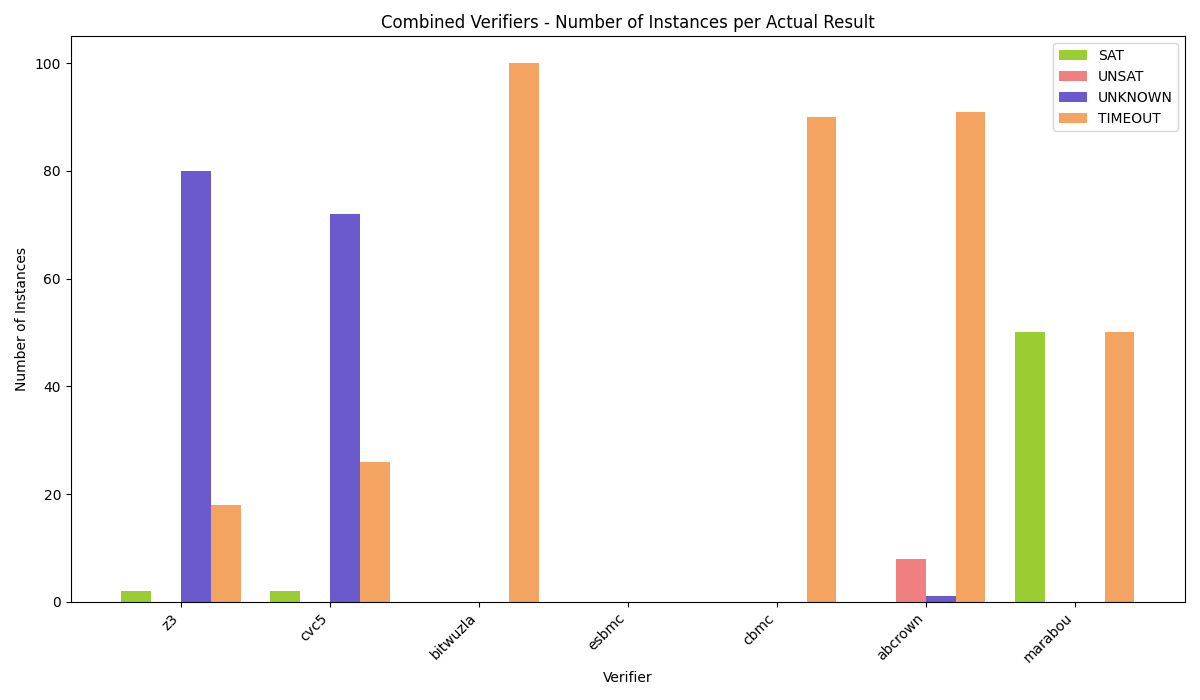
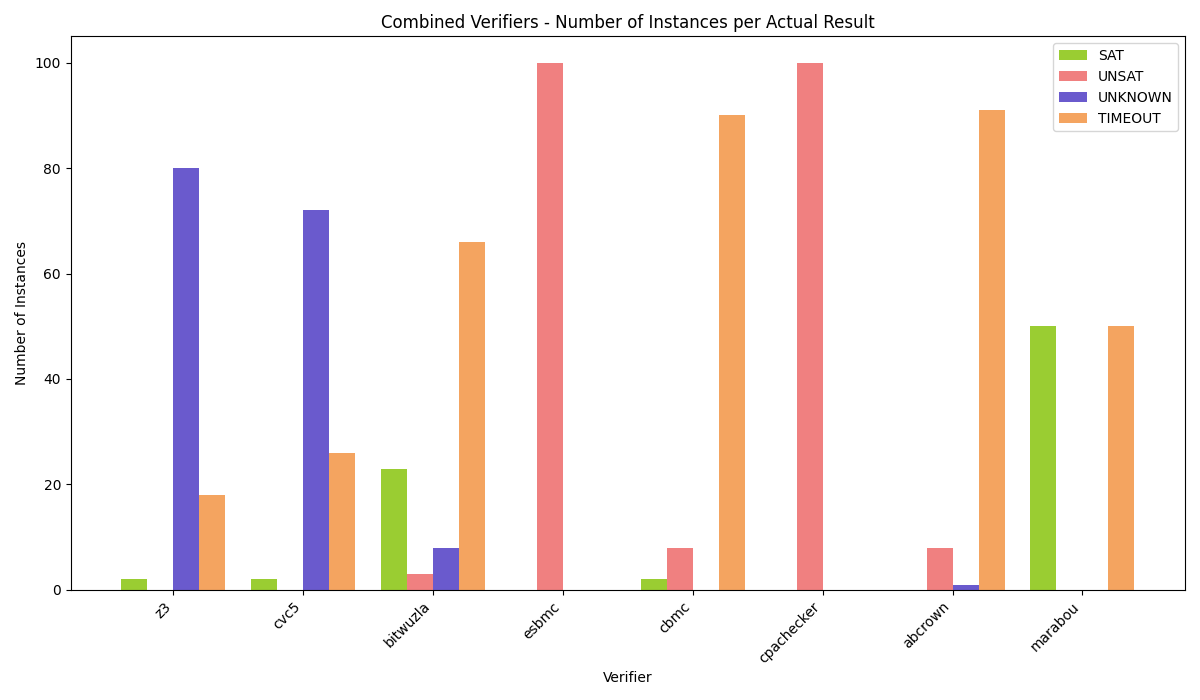
generated graphs

diff --git a/helpers/conversion_stats.py b/helpers/conversion_stats.py
@@ -2,7 +2,6 @@ import pandas as pd
 import matplotlib.pyplot as plt
 from pathlib import Path
 
-
 SCRIPT_DIR = Path(__file__).parent
 RESULTS_DIR = SCRIPT_DIR.parent / "results"
 GRAPHS_DIR = SCRIPT_DIR.parent / "graphs"
@@ -11,9 +10,9 @@ GRAPHS_DIR = SCRIPT_DIR.parent / "graphs"
 # Parameters:
 #   onnx_to_c_path: Path to the ONNX to C CSV file.
 #   onnx_to_smt_path: Path to the ONNX to SMT CSV file.
-#   output_csv: Path to save the output summary CSV (default: 'conversion_time_summary_by_size.csv').
+#   output_csv: Path to save the output summary CSV (default: 'conversion_time_summary.csv').
 # Returns: The summary DataFrame.
-def process_conversion_times(onnx_to_c_path, onnx_to_smt_path, output_csv= GRAPHS_DIR / 'conversion_time_summary.csv'):
+def process_conversion_times(onnx_to_c_path, onnx_to_smt_path, output_csv=GRAPHS_DIR / 'conversion_time_summary.csv'):
     # Load the data from the CSV files
     onnx_to_c = pd.read_csv(onnx_to_c_path)
     onnx_to_smt = pd.read_csv(onnx_to_smt_path)
@@ -52,12 +51,11 @@ def process_conversion_times(onnx_to_c_path, onnx_to_smt_path, output_csv= GRAPH
     
     return summary
 
-
 # Function to generate a single linear (line) plot combining both conversion times vs. parameter counts.
 # Parameters:
 #   onnx_to_c: DataFrame containing ONNX to C data.
 #   onnx_to_smt: DataFrame containing ONNX to SMT data.
-# Saves the plot as 'combined_conversion_time_plot.png'.
+# Saves the plot as 'conversion_time_plot.png'.
 def plot_conversion_times(onnx_to_c, onnx_to_smt):
     # Sort data by parameter count for smooth line plots
     onnx_to_c_sorted = onnx_to_c.sort_values('Parameter Count')
@@ -82,6 +80,30 @@ def plot_conversion_times(onnx_to_c, onnx_to_smt):
     plt.tight_layout()
     plt.savefig(GRAPHS_DIR / 'conversion_time_plot.png')  # Save the plot as a PNG image
 
+# Function to generate a box plot for both conversion times in one graph, showing mean, median, and quartile ranges.
+# Parameters:
+#   onnx_to_c: DataFrame containing ONNX to C data.
+#   onnx_to_smt: DataFrame containing ONNX to SMT data.
+# Saves the plot as 'conversion_time_boxplot.png'.
+def plot_box_conversion_times(onnx_to_c, onnx_to_smt):
+    # Prepare data for boxplot
+    data = [onnx_to_c['Time Taken (s)'], onnx_to_smt['Time Taken (s)']]
+    labels = ['ONNX to C', 'ONNX to SMT']
+    
+    # Create the boxplot
+    plt.figure(figsize=(10, 6))
+    box = plt.boxplot(data, labels=labels, patch_artist=True, showmeans=True)
+    
+    # Set colors consistent with the linear plot
+    colors = ['slateblue', 'yellowgreen']
+    for patch, color in zip(box['boxes'], colors):
+        patch.set_facecolor(color)
+    
+    plt.title('Boxplot of Conversion Times (Mean, Median, Quartiles)')
+    plt.ylabel('Time Taken (s)')
+    plt.grid(True, axis='y')
+    plt.tight_layout()
+    plt.savefig(GRAPHS_DIR / 'conversion_time_boxplot.png')  # Save the plot as a PNG image
 
 def main():
     # Define paths to the input CSV files (adjust if needed)
@@ -95,23 +117,18 @@ def main():
     onnx_to_c = pd.read_csv(onnx_to_c_path)
     onnx_to_smt = pd.read_csv(onnx_to_smt_path)
     
-    # Generate and save the plots
+    # Generate and save the linear plot
     plot_conversion_times(onnx_to_c, onnx_to_smt)
-
-    # Load your conversion data
-    df = pd.read_csv(onnx_to_c_path)
-
-    # Compute Pearson correlation
-    corr = df['Parameter Count'].corr(df['Time Taken (s)'])
-    print(f"Pearson correlation: {corr:.4f}")
-
-    # Load your conversion data
-    df = pd.read_csv(onnx_to_smt_path)
-
-    # Compute Pearson correlation
-    corr = df['Parameter Count'].corr(df['Time Taken (s)'])
-    print(f"Pearson correlation: {corr:.4f}")
-
+    
+    # Generate and save the box plot
+    plot_box_conversion_times(onnx_to_c, onnx_to_smt)
+    
+    # Compute and print Pearson correlations
+    corr_c = onnx_to_c['Parameter Count'].corr(onnx_to_c['Time Taken (s)'])
+    print(f"Pearson correlation for ONNX to C: {corr_c:.4f}")
+    
+    corr_smt = onnx_to_smt['Parameter Count'].corr(onnx_to_smt['Time Taken (s)'])
+    print(f"Pearson correlation for ONNX to SMT: {corr_smt:.4f}")
 
 # Entry point to run the main function when the script is executed
 if __name__ == '__main__':

diff --git a/helpers/generate_graphs.py b/helpers/generate_graphs.py
@@ -310,9 +310,7 @@ def generate_bar_graph(data_dict, output_dir, verifier_type=None):
         verifier_name = get_verifier_name(file_name)
         if verifier_name not in counts:
             counts[verifier_name] = {'SAT': 0, 'UNSAT': 0, 'UNKNOWN': 0, 'TIMEOUT': 0}
-        if verifier_type == "sv":
-            # For SV, we need to handle the specific result types
-            df['Actual Result'] = df['Actual Result'].replace({
+        df['Actual Result'] = df['Actual Result'].replace({
                 'VERIFICATION FAILED (SAT)': 'SAT',
                 'VERIFICATION SUCCESSFUL (UNSAT)': 'UNSAT'
             })
